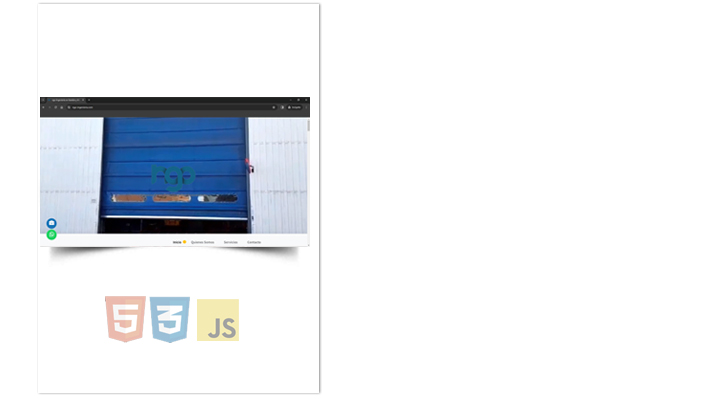
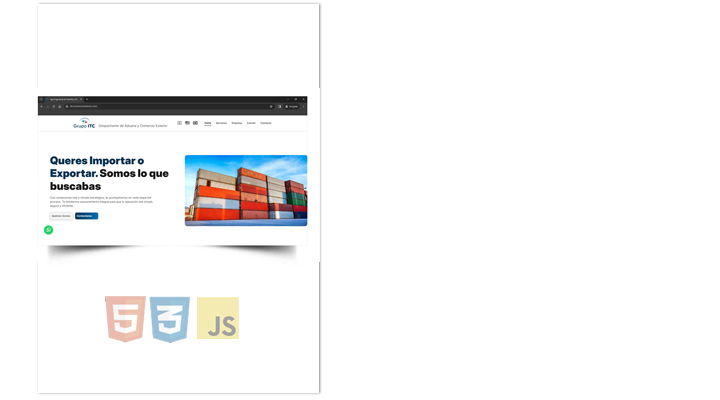
actualizacion portfolio y menu

Changed region(s): [[0.0306, 0.24, 0.4583, 0.63], [0.275, 0.78, 0.3361, 0.87], [0.275, 0.72, 0.3361, 0.75]]

diff --git a/index.html b/index.html
@@ -47,12 +47,12 @@
         =========================== -->
         <header id="home">
 		    <!-- creative menu -->
-            <div class="container-fluid">
+            <!-- <div class="container-fluid">
               <div class="row">
                 <div class="menu-wrap">
-				<nav class="menu">
+				<nav class="menu"> -->
 				    <!-- Menu Links -->
-					<div class="icon-list">
+					<!-- <div class="icon-list">
 						<a href="index.html#home"><i class="fa fa-fw fa-home"></i><span data-section="nav" data-value="home">Home</span></a>
 						<a href="index.html#about"><i class="fa fa-fw fa-quote-left"></i><span data-section="nav" data-value="about-me">About</span></a>
 						<a href="index.html#skills"><i class="fa fa-fw fa-globe"></i><span data-section="nav" data-value="skills-and-tools">Skills and Tools</span></a>
@@ -60,8 +60,25 @@
 						<a href="index.html#contact"><i class="fa fa-fw fa-envelope-o"></i><span data-section="nav" data-value="contact">Contact</span></a>            
 					</div>
           
-				</nav>
-         <!-- Flags       -->
+				</nav> -->
+          <!-- Elimina el menú hamburguesa y wrapper original -->
+      <div id="sideMenu">
+        <div class="menu-toggle" onclick="toggleMenu()">M<br>E<br>N<br>U</div>
+          <div class="vertical-nav hidden" id="verticalNav">
+              <nav class="menu">
+                  <div class="icon-list">
+                      <a href="index.html#home"><i class="fa fa-home"></i><span>Home</span></a>
+                      <a href="index.html#about"><i class="fa fa-user"></i><span>About</span></a>
+                      <a href="index.html#skills"><i class="fa fa-code"></i><span>Skills</span></a>
+                      <a href="index.html#portfolio"><i class="fa fa-briefcase"></i><span>Portfolio</span></a>
+                      <a href="index.html#contact"><i class="fa fa-envelope"></i><span>Contact</span></a>
+                  </div>
+              </nav>
+          </div>
+      </div>
+
+
+      <!-- Flags       -->
 
       <div id="flags" class="flags flags_img">
         <div class="flags_items flags-ar" data-language="es">
@@ -75,7 +92,8 @@
         </div>
       </div>
 			    </div>
-			    <button class="menu-button" id="open-button"></button><!-- menu button -->
+          <!-- menu button -->
+			    <!-- <button class="menu-button" id="open-button"></button> -->
       </div><!--/row-->            
 </div> <!--/container -->
          
@@ -142,8 +160,7 @@
                 <!-- Headline -->
                 <h1 class="arrow" data-section="Secciones" data-value="about-me">A little <span>about</span> me </h1>
 
-				<!-- about / welcome text -->
-                <!-- <p>Soy copywriter publicitario con +15 años de experiencia, enfocado al mundo digital, por eso desde fines del 2007 como freelance me dedique a las redes sociales, como community manager y marketing digital. A su vez dese el 2021 decidí (otra vez) adaptarme a la actualidad y dedicarme a la programación, y de esta manera transformarme en un FullStack Developer, Python (Django | Flask). Mi intención es seguir aprendiendo y sumando conocimiento para poder trabajar en este mundo que descubrí y es muy apasionante.</p><br> -->
+				<!-- about / welcome text -->               
                 <div class="contenido-about" data-section="Secciones" data-value="about-me-contenido"><p style="font-size: large;"> I am an advertising copywriter with +15 experience in advertising agencies, adapted to the digital world, that is why since the end of 2007 as a freelancer I have dedicated myself to social networks, as a community manager and digital marketing. At the same time, since 2021 I decided (again) to adapt to the present and dedicate myself to programming, and in this way become a FullStack Developer, Python (Django | Flask). My intention is to continue learning and adding knowledge to be able to work in this world that I discovered and it is very exciting.</p>
                 </div><br><br>
                 <a href="https://drive.google.com/file/d/1rmtes1yaeMD3ERNPydVCeFQgwP1kcNAf/view?usp=sharing" target="_blank" class="weight-outline-btn" data-section="Botones" data-value="boton-descargar-cv">Download CV</a><!-- read more button  -->
@@ -264,7 +281,7 @@
                   </div>
                   <!-- PORTFOLIO ITEM END -->
                    
-                <!-- PORTFOLIO ITEM 11 -->
+                <!-- PORTFOLIO ITEM 4 -->
                 <div class="col-md-3 col-sm-6 portfolio-img third">
                   <div class="overlay-effect effects clearfix">
                       <div class="img">
@@ -276,7 +293,7 @@
               </div>
                 <!-- PORTFOLIO ITEM END -->
 
-                 <!-- PORTFOLIO ITEM 8 -->
+                 <!-- PORTFOLIO ITEM 5 -->
                  <div class="col-md-3 col-sm-6 portfolio-img third">
                   <div class="overlay-effect effects clearfix">
                       <div class="img">
@@ -288,7 +305,7 @@
                 </div>
                 <!-- PORTFOLIO ITEM END -->
           
-                  <!-- PORTFOLIO ITEM 9 -->
+                  <!-- PORTFOLIO ITEM 6 -->
                   <div class="col-md-3 col-sm-6 portfolio-img third">
                       <div class="overlay-effect effects clearfix">
                           <div class="img">
@@ -300,7 +317,7 @@
                   </div>
                   <!-- PORTFOLIO ITEM END -->
           
-                  <!-- PORTFOLIO ITEM 4 -->
+                  <!-- PORTFOLIO ITEM 7 -->
                   <div class="col-md-3 col-sm-6 portfolio-img third">
                     <div class="overlay-effect effects clearfix">
                         <div class="img">
@@ -311,8 +328,20 @@
                     </div>
                 </div>                 
                   <!-- PORTFOLIO ITEM END -->
+
+                 <!-- PORTFOLIO ITEM 8 -->
+                  <div class="col-md-3 col-sm-6 portfolio-img third">
+                      <div class="overlay-effect effects clearfix">
+                          <div class="img">
+                              <a href="https://itccomercioexterior.com/" title="Grupo-ITC (Html-Css-Js)" target="_blank">
+                                  <img class="grayscale" src="img/portfolio/portfolio-08-thumbnail.jpg" alt="grupo-itc">
+                              </a>
+                          </div>
+                      </div>
+                  </div>
+                  <!-- PORTFOLIO ITEM END -->
           
-                  <!-- PORTFOLIO ITEM 5 -->
+                  <!-- PORTFOLIO ITEM 9 -->
                   <div class="col-md-3 col-sm-6 portfolio-img third">
                       <div class="overlay-effect effects clearfix">
                           <div class="img">
@@ -324,7 +353,7 @@
                   </div>
                   <!-- PORTFOLIO ITEM END -->
           
-                  <!-- PORTFOLIO ITEM 6 -->
+                  <!-- PORTFOLIO ITEM 10 -->
                   <div class="col-md-3 col-sm-6 portfolio-img third">
                       <div class="overlay-effect effects clearfix">
                           <div class="img">
@@ -336,7 +365,7 @@
                   </div>
                   <!-- PORTFOLIO ITEM END -->
           
-                  <!-- PORTFOLIO ITEM 7 -->
+                  <!-- PORTFOLIO ITEM 11 -->
                   <div class="col-md-3 col-sm-6 portfolio-img third">
                     <div class="overlay-effect effects clearfix">
                         <div class="img">
@@ -348,8 +377,8 @@
                   </div>
                   <!-- PORTFOLIO ITEM END -->                  
           
-                  <!-- PORTFOLIO ITEM 9 -->
-                  <div class="col-md-3 col-sm-6 portfolio-img third">
+                  <!-- PORTFOLIO ITEM 12 -->
+                  <!-- <div class="col-md-3 col-sm-6 portfolio-img third">
                       <div class="overlay-effect effects clearfix">
                           <div class="img">
                               <a href="https://ngo-ingenieria.com/" title="ngo-Ingeniería (Html-Css-Js)" target="_blank">
@@ -357,7 +386,7 @@
                               </a>
                           </div>
                       </div>
-                  </div>
+                  </div> -->
                   <!-- PORTFOLIO ITEM END -->
           
               </div><!--/row-->

diff --git a/css/style.css b/css/style.css
@@ -1299,4 +1299,217 @@ ul.slides li {
 	}
 }
 
+.menu-wrap, .menu-button, .content-wrap {
+    display: none !important;
+}
+/* ============================================ Vertical Sliding Navigation ============================================ */
+/* #verticalMenu {
+    position: fixed;
+    right: 0;
+    top: 50%;
+    transform: translateY(-50%);
+    z-index: 10000;
+    height: auto;
+    display: flex;
+    align-items: center;
+}
+
+#verticalMenu .menu-tab {
+    writing-mode: vertical-rl;
+    background: #E04343;
+    color: white;
+    padding: 12px 6px;
+    font-weight: bold;
+    font-size: 13px;
+    letter-spacing: 1px;
+    cursor: pointer;
+    border-radius: 4px 0 0 4px;
+    transition: all 0.3s;
+    height: auto;
+    line-height: 1;
+    box-shadow: -2px 0 4px rgba(0,0,0,0.1);
+}
+
+#verticalMenu .menu-tab:hover {
+    background: rgba(255, 232, 0, 1);
+	color: #E04343;
+}
+
+#verticalMenu .menu-content {
+    width: 0;
+    overflow: hidden;
+    background: white;
+    box-shadow: -2px 0 8px rgba(0,0,0,0.1);
+    transition: width 0.3s ease;
+    display: flex;
+    flex-direction: column;
+    padding: 0;
+    margin: 0;
+}
+
+#verticalMenu .menu-content a {
+    display: flex;
+    flex-direction: column;
+    align-items: center;
+    padding: 12px 15px;
+    color: #555;
+    text-decoration: none;
+    font-size: 12px;
+    white-space: nowrap;
+    transition: all 0.2s;
+    border-bottom: 1px solid #f0f0f0;
+}
+
+#verticalMenu .menu-content a:last-child {
+    border-bottom: none;
+}
+
+#verticalMenu .menu-content a:hover {
+    background: #f9f9f9;
+    color: #E04343;
+}
+
+#verticalMenu .menu-content a i {
+    font-size: 16px;
+    margin-bottom: 5px;
+    color: #E04343;
+}
+
+#verticalMenu.open .menu-content {
+    width: 130px;
+} */
+
+/* Ocultar scroll vertical */
+html, body {
+    overflow-x: hidden;
+}
+
+/* ==========================================================================Vertical Navigation========================================================================== */
+.vertical-nav {
+    position: fixed;
+    right: 0;
+    top: 40%;
+    transform: translateY(-50%);
+    z-index: 1000;
+    background: rgba(255, 255, 255, 0.9);
+    padding: 20px 10px;
+    border-radius: 5px 0 0 5px;
+    box-shadow: -2px 0 10px rgba(0, 0, 0, 0.1);
+    transition: all 0.3s ease;
+}
+
+.vertical-nav .menu {
+    display: flex;
+    flex-direction: column;
+}
+
+.vertical-nav .icon-list {
+    display: flex;
+    flex-direction: column;
+    padding: 0;
+}
+
+.vertical-nav .icon-list a {
+    display: flex;
+    flex-direction: column;
+    align-items: center;
+    padding: 15px 10px;
+    margin: 5px 0;
+    color: #555d7c;
+    text-decoration: none;
+    transition: all 0.3s ease;
+    opacity: 1 !important;
+    border-bottom: none;
+}
+
+.vertical-nav .icon-list a:hover {
+    color: #E04343;
+    background: rgba(224, 67, 67, 0.1);
+    border-radius: 3px;
+}
+
+.vertical-nav .icon-list a i {
+    font-size: 20px;
+    margin-bottom: 5px;
+}
+
+.vertical-nav .icon-list a span {
+    font-size: 12px;
+    padding-top: 5px;
+    letter-spacing: 0.5px;
+}
+
+.vertical-nav.hidden {
+    right: -200px; 
+    opacity: 0;
+    pointer-events: none;
+}
+
+.vertical-nav {
+    transition: right 0.3s ease, opacity 0.3s ease;
+}
+
+/* Responsive adjustments */
+@media screen and (max-width: 767px) {
+    .vertical-nav {
+        display: none; /* Ocultar en móviles si prefieres */
+    }
+}
+
+/* Eliminar estilos del menú hamburguesa original */
+.menu-wrap, .menu-button, .content-wrap {
+    display: none !important;
+}
+
+/* Estado inicial oculto */
+.vertical-nav.hidden {
+    transform: translateX(100%);
+    opacity: 0;
+    pointer-events: none;
+}
+
+/* Transición suave */
+.vertical-nav {
+    transition: transform 0.4s ease-in-out, opacity 0.4s ease-in-out;
+}
+
+
+
+.menu-toggle {
+    position: fixed;
+    top: 20%;
+    right: 0;
+    transform: translateY(30%);
+    background-color: #E04343;
+    color: white;
+    padding: 10px 5px;
+    font-weight: bold;
+    cursor: pointer;
+    z-index: 1001;
+    border-radius: 5px 0 0 5px;
+    font-size: 14px;
+    text-align: center;
+    line-height: 1.2;
+    box-shadow: -2px 0 5px rgba(0, 0, 0, 0.1);
+    user-select: none;
+    transition: all 0.3s ease;
+}
+
+.menu-toggle:hover {
+    background: rgba(255, 232, 0, 1);
+	color: #E04343;
+    transform: translateY(20%);
+}
+
+/* Estado inicial oculto */
+.vertical-nav.hidden {
+    transform: translateX(100%);
+    opacity: 0;
+    pointer-events: none;
+}
+
+/* Transición suave */
+.vertical-nav {
+    transition: transform 0.4s ease-in-out, opacity 0.4s ease-in-out;
+}
 

diff --git a/js/script.js b/js/script.js
@@ -144,3 +144,13 @@ $('#portfolio-flters li').on('click', function () {
 
 
 
+// menu desplegable
+
+// function toggleMenu() {
+//     const menu = document.querySelector('.vertical-nav');
+//     menu.classList.toggle('hidden');
+//   }
+  function toggleMenu() {
+    const menu = document.querySelector('.vertical-nav');
+    menu.classList.toggle('hidden');
+  }
